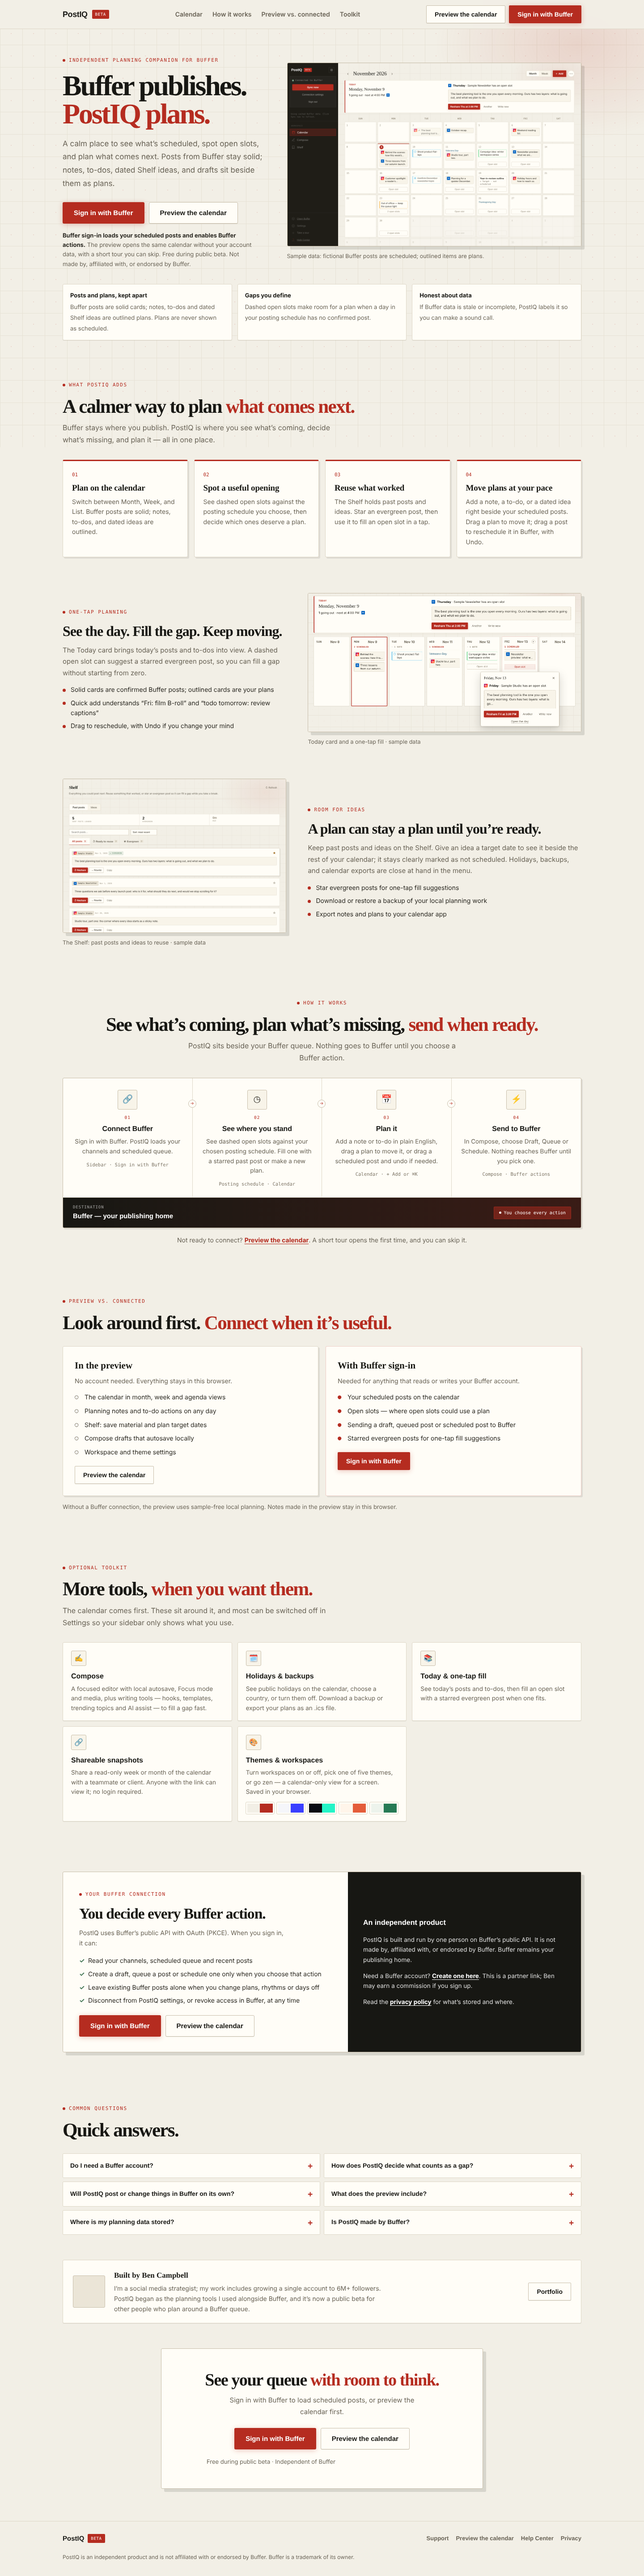
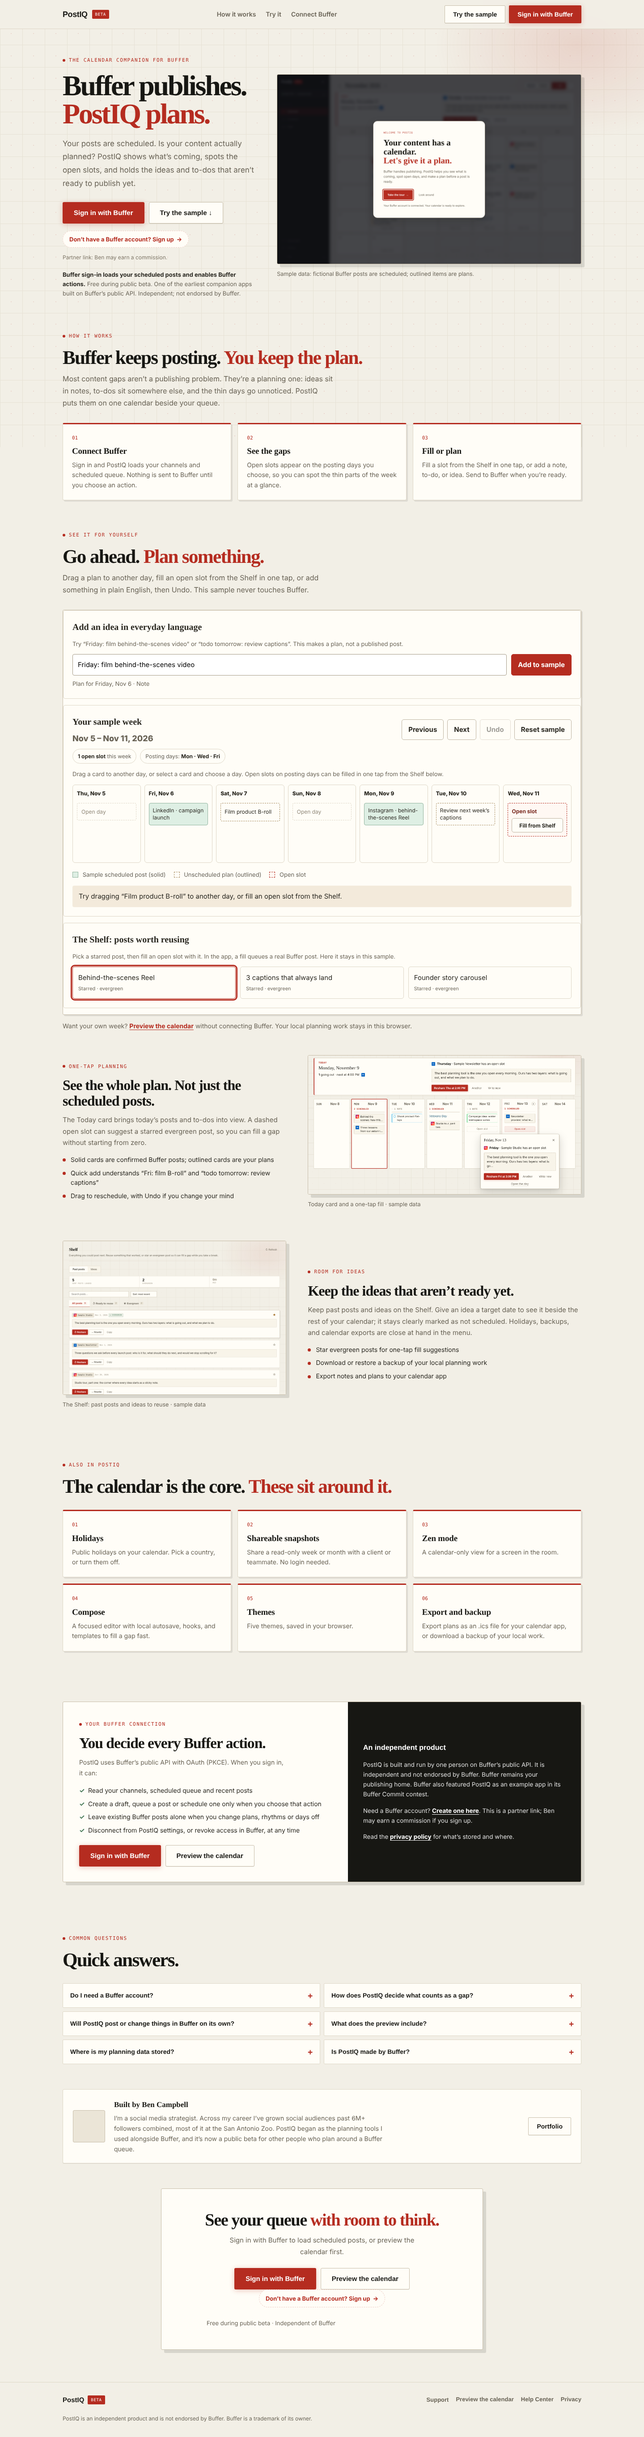
Landing: original hero mockup back; product shots recaptured at 2x
- Hero shows the original calendar mockup again; the live sample stays in
  the section below it.
- Capture script renders product screenshots at deviceScaleFactor 2 so
  they stay sharp on retina displays. Full-page landing capture stays 1x.
- Share image (postiq-og.png) is unchanged.

Claude-Session: https://claude.ai/code/session_012foW17RqDYDXsgkesPZkXn

Changed region(s): [[0.0938, 0.0, 0.9062, 0.9668]]

diff --git a/tests/landing-tour.test.js b/tests/landing-tour.test.js
@@ -17,7 +17,10 @@ assert.doesNotMatch(landing, /affiliated with/, 'no affiliation claim next to th
 assert.doesNotMatch(landing, /thread splitter|first companion app|demoInput/i, 'obsolete demo and claims stay removed');
 const order = ['id="heroTitle"', 'id="how"', 'id="try"', 'id="extras"'].map(id => landing.indexOf(id));
 assert.ok(order.every(i => i > -1) && order.every((i, k) => k === 0 || order[k - 1] < i), 'hero, how it works, sample, then extras');
-assert.match(landing, /<postiq-sample-calendar compact[^>]*><\/postiq-sample-calendar>/, 'hero runs the live compact sample');
+const heroVisual = landing.match(/<figure class="hero-visual"[\s\S]*?<\/figure>/);
+assert.ok(heroVisual, 'hero shows the product next to the copy');
+assert.match(heroVisual[0], /calendar-desktop\.png/, 'hero uses the current product capture');
+assert.doesNotMatch(landing.slice(0, landing.indexOf('id="how"')), /<postiq-sample-calendar/, 'the live sample lives below the hero, not in it');
 assert.match(landing, /<a class="signup-pill" href="https:\/\/join\.buffer\.com\/ben-campbell"[^>]*>Don’t have a Buffer account\? Sign up/, 'sign-up pill uses the partner link');
 assert.match(landing, /Partner link: Ben may earn a commission/, 'affiliate disclosure sits beside the pill');
 assert.doesNotMatch(landing, /href="[^"]*tour=1/, 'one preview entry point, not a separate tour link');

diff --git a/index.html b/index.html
@@ -602,10 +602,10 @@ h1 em{font-style:normal;color:var(--brand);display:block;}
         <p class="hero-note"><strong>Buffer sign-in loads your scheduled posts and enables Buffer actions.</strong> Free during public beta. One of the earliest companion apps built on Buffer’s public API. Independent; not endorsed by Buffer.</p>
       </div>
 
-      <div class="hero-demo">
-        <postiq-sample-calendar compact aria-label="Interactive PostIQ sample calendar"></postiq-sample-calendar>
-        <p class="hero-demo-caption">Sample data: fictional posts. Drag a card or fill an open slot. Nothing here touches Buffer.</p>
-      </div>
+      <figure class="hero-visual" aria-labelledby="heroMockCaption">
+        <img class="product-shot hero-product-shot" src="/images/product/calendar-desktop.png" alt="PostIQ calendar with sample scheduled posts, open slots, and outlined plans">
+        <figcaption class="mock-caption" id="heroMockCaption">Sample data: fictional Buffer posts are scheduled; outlined items are plans.</figcaption>
+      </figure>
     </div>
   </div>
 </section>

diff --git a/scripts/capture-landing-screenshots.js b/scripts/capture-landing-screenshots.js
@@ -107,7 +107,7 @@ async function run() {
   ];
   try {
     for (const shot of shots) {
-      const page = await browser.newPage({ viewport: { width: shot.width, height: shot.height }, timezoneId: 'UTC', serviceWorkers: 'block' });
+      const page = await browser.newPage({ viewport: { width: shot.width, height: shot.height }, timezoneId: 'UTC', serviceWorkers: 'block', deviceScaleFactor: 2 });
       const writes = [];
       await page.clock.install({ time: NOW });
       await page.route('**/*', route => {
